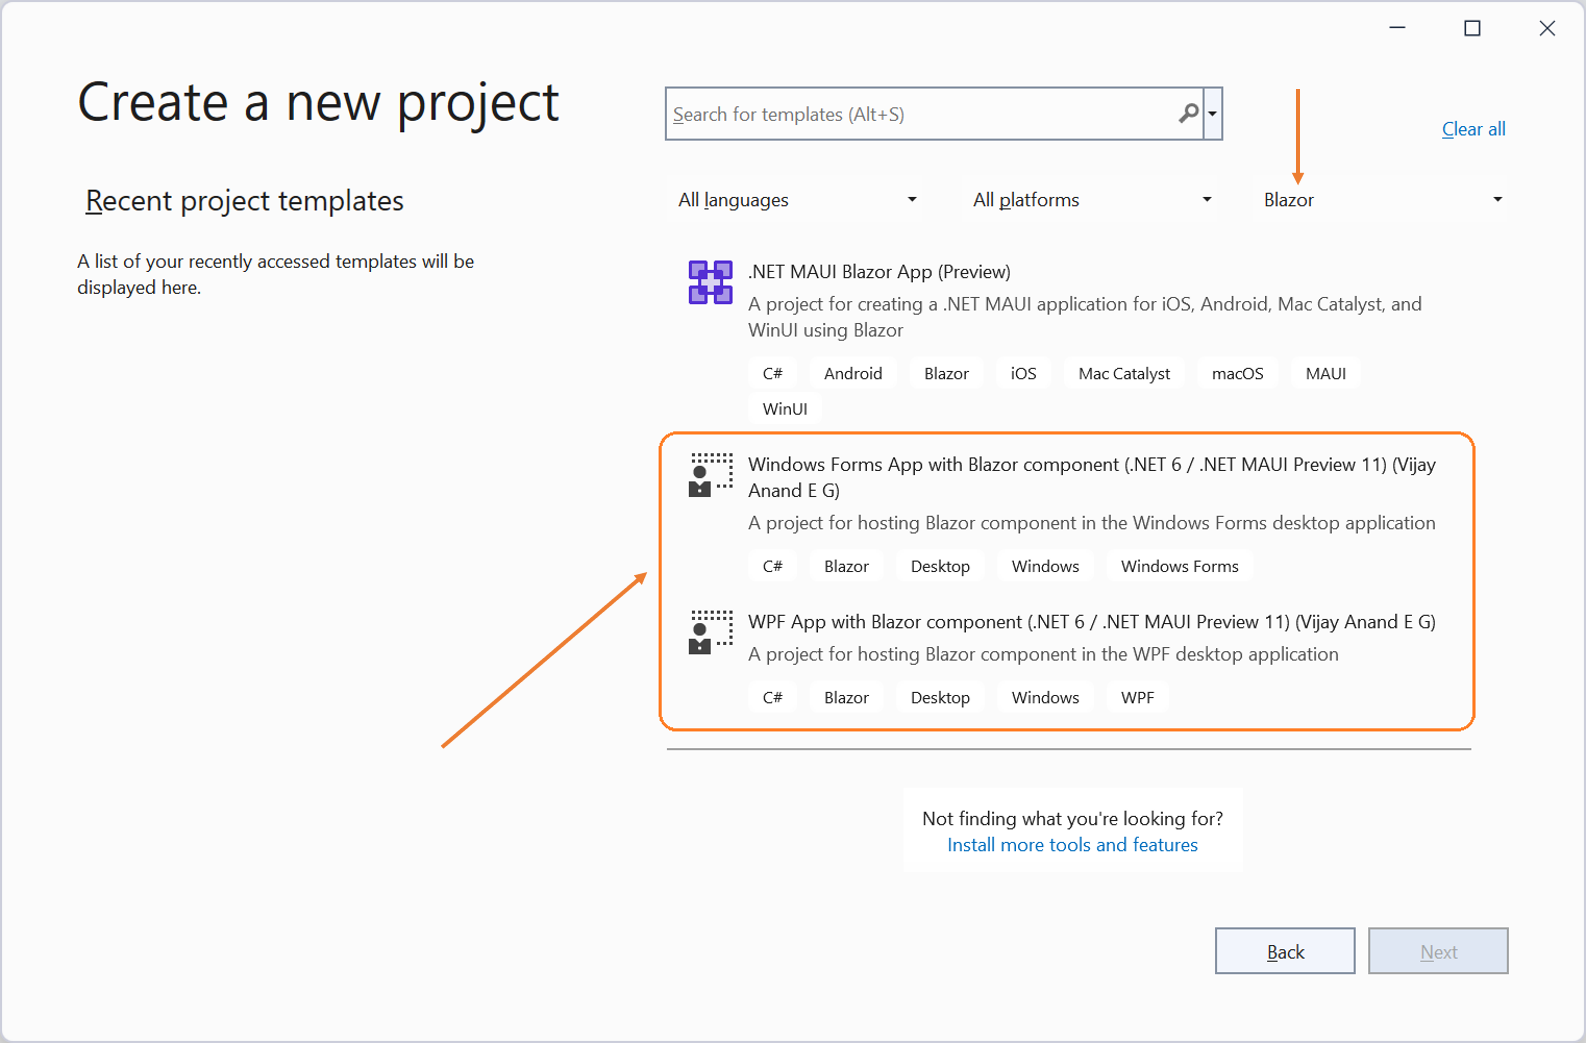
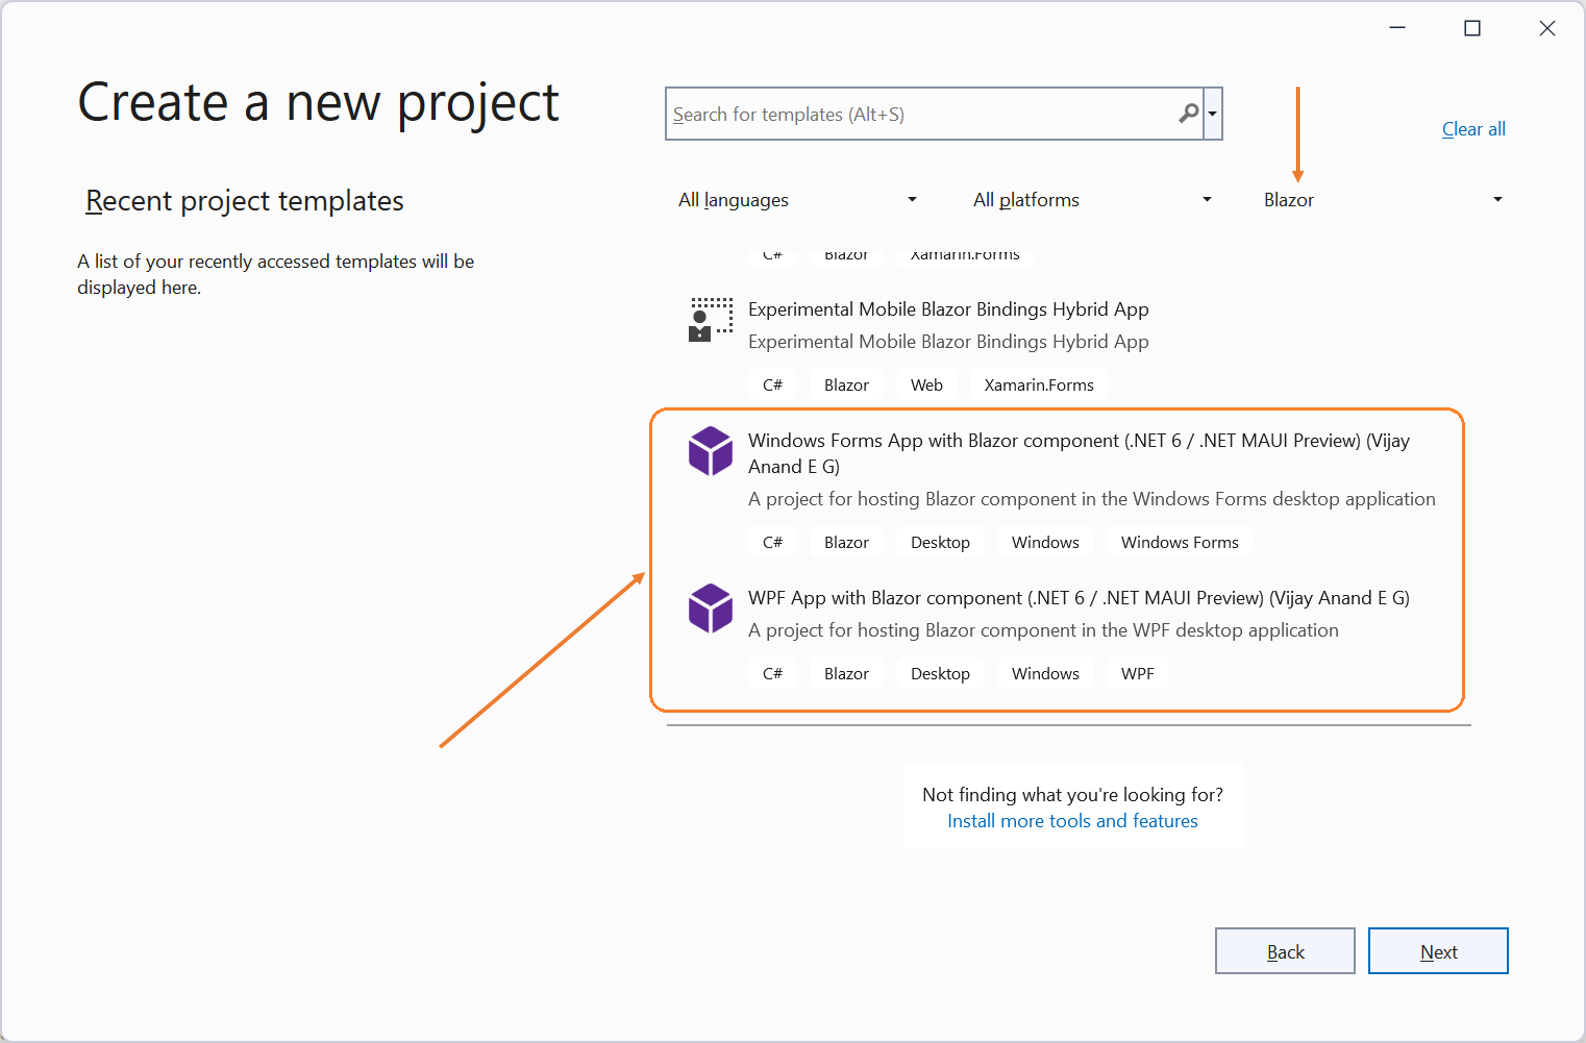
Blazor Desktop Templates - VS Extension

diff --git a/src/Extensions/BlazorTemplates/BlazorTemplates/source.extension.cs b/src/Extensions/BlazorTemplates/BlazorTemplates/source.extension.cs
@@ -1,0 +1,18 @@
+// ------------------------------------------------------------------------------
+// <auto-generated>
+//     This file was generated by VSIX Synchronizer
+// </auto-generated>
+// ------------------------------------------------------------------------------
+namespace BlazorTemplates
+{
+    internal sealed partial class Vsix
+    {
+        public const string Id = "BlazorTemplates.316c4442-1dec-424e-9a59-e9c637daede6";
+        public const string Name = "Blazor Desktop Templates";
+        public const string Description = @"A project template for hosting the Blazor component in the Windows Forms and WPF desktop application.";
+        public const string Language = "en-US";
+        public const string Version = "1.0.0.0";
+        public const string Author = "Vijay Anand E G";
+        public const string Tags = "Blazor, Desktop, WindowsForms, WinForms, WPF, Windows, Template, BlazorWebView, Hybrid, Razor, Web";
+    }
+}

diff --git a/src/Extensions/BlazorTemplates/BlazorTemplates/Properties/AssemblyInfo.cs b/src/Extensions/BlazorTemplates/BlazorTemplates/Properties/AssemblyInfo.cs
@@ -1,0 +1,22 @@
+using BlazorTemplates;
+using System.Reflection;
+using System.Runtime.InteropServices;
+
+[assembly: AssemblyTitle(Vsix.Name)]
+[assembly: AssemblyDescription(Vsix.Description)]
+[assembly: AssemblyConfiguration("")]
+[assembly: AssemblyCompany(Vsix.Author)]
+[assembly: AssemblyProduct(Vsix.Name)]
+[assembly: AssemblyCopyright(Vsix.Author)]
+[assembly: AssemblyTrademark("")]
+[assembly: AssemblyCulture("")]
+
+[assembly: ComVisible(false)]
+
+[assembly: AssemblyVersion(Vsix.Version)]
+[assembly: AssemblyFileVersion(Vsix.Version)]
+
+namespace System.Runtime.CompilerServices
+{
+    public class IsExternalInit { }
+}
